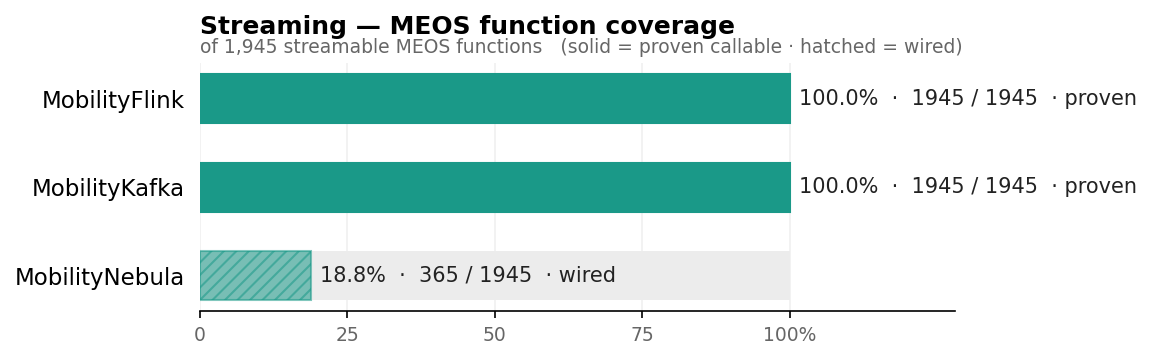
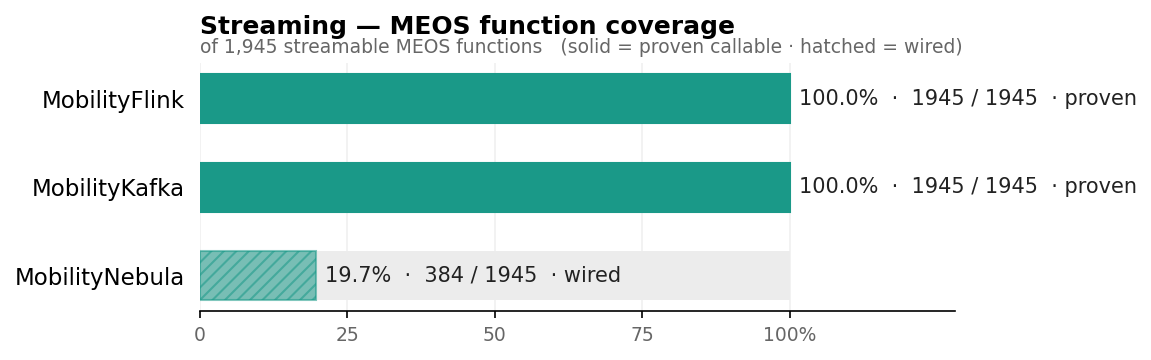
docs(streaming): NebulaStream 384 / 1,945 wired (19.7%), 57 systest-confirmed
Regenerate the streaming-coverage figure and table: 384 wired (19.7%), 57
confirmed callable — adds the 13 tnumber-vs-tnumber cross-vehicle predicates and
the merge functions invoked by the uniformized extent/union aggregates.

Changed region(s): [[0.3649, 0.7333, 0.5474, 0.7944], [0.2433, 0.7028, 0.3345, 0.825]]

diff --git a/profile/images/coverage_charts.py b/profile/images/coverage_charts.py
@@ -56,7 +56,7 @@ hbar(
     [
         ("MobilityFlink",  100.0, "100.0%  ·  1945 / 1945  · proven", "#1a9988", True),
         ("MobilityKafka",  100.0, "100.0%  ·  1945 / 1945  · proven", "#1a9988", True),
-        ("MobilityNebula",  18.8, "18.8%  ·  365 / 1945  · wired",    "#1a9988", False),
+        ("MobilityNebula",  19.7, "19.7%  ·  384 / 1945  · wired",    "#1a9988", False),
     ],
     "of 1,945 streamable MEOS functions   (solid = proven callable · hatched = wired)",
 )

diff --git a/profile/streaming-parity.md b/profile/streaming-parity.md
@@ -18,7 +18,7 @@ deploy on real workloads?* — with reproducible evidence rather than assertion.
 
 Coverage of the **1,945 streamable MEOS functions** — confirmed callable on a real `libmeos`:
 
-<img src="https://raw.githubusercontent.com/MobilityDB/.github/main/profile/images/streaming-coverage.png?v=15" width="760" alt="Streaming MEOS function coverage of 1,945 streamable functions: MobilityFlink 100.0% (1945/1945, proven callable), MobilityKafka 100.0% (1945/1945, proven callable), MobilityNebula 18.8% (365/1945, wired)" />
+<img src="https://raw.githubusercontent.com/MobilityDB/.github/main/profile/images/streaming-coverage.png?v=16" width="760" alt="Streaming MEOS function coverage of 1,945 streamable functions: MobilityFlink 100.0% (1945/1945, proven callable), MobilityKafka 100.0% (1945/1945, proven callable), MobilityNebula 19.7% (384/1945, wired)" />
 
 - **Correctness** — all **9 BerlinMOD queries × 3 streaming forms = 27/27 cells** reproduce the batch result on every platform; the Flink snapshot output is **byte-identical** to the batch oracle.
 
@@ -55,7 +55,7 @@ Three layers, increasing in strength:
 |---|--:|--:|--:|
 | **MobilityFlink**  | **1,945 callable** | 1,945 | **100.0 %** |
 | **MobilityKafka**  | **1,945 callable** | 1,945 | **100.0 %** |
-| **MobilityNebula** | 49 systest-confirmed | 365 wired · compile-verified | 18.8 % wired |
+| **MobilityNebula** | 57 systest-confirmed | 384 wired · compile-verified | 19.7 % wired |
 
 Flink and Kafka share one generated JNR-FFI facade, so their callability is identical;
 it is confirmed by a type-aware per-method harness that invokes **every** facade method
